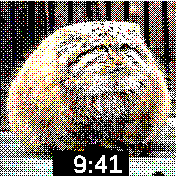
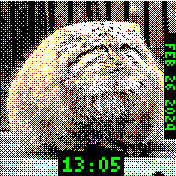
updating screenshot and cleaning up font size and font background carve out

Changed region(s): [[0.9091, 0.1705, 1.0, 0.7955], [0.2841, 0.8523, 0.7386, 1.0]]

diff --git a/apps/roundboy/app.js b/apps/roundboy/app.js
@@ -28,15 +28,15 @@ function draw() {
   // draw date
   var date = new Date();
   var dateStr = require("locale").date(date).toUpperCase();
-  g.setFontAlign(0,0,1).setFont("4x6",3);
+  g.setFontAlign(0,0,1).setFont("4x6",2.5);
   // clear the background
-  g.clearRect(dateX-4,dateY+65,dateX+8,dateY-70);
+  g.clearRect(dateX-4,dateY+50,dateX+8,dateY-55);
   g.drawString(dateStr,dateX,dateY);
   // draw time
   var timeStr = require("locale").time(date,1);
   g.setFontAlign(0,0).setFont("4x6",3);
   // clear the background
-  g.clearRect(timeX-40,timeY-5,timeX+35,timeY+21);
+  g.clearRect(timeX-35,timeY-5,timeX+30,timeY+21);
   g.drawString(timeStr,timeX,timeY+10);
   }
 
